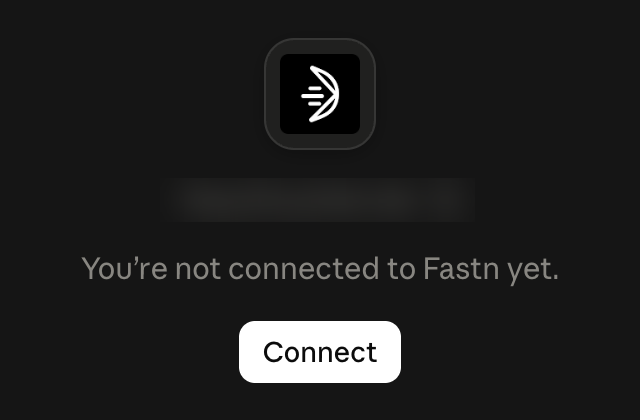
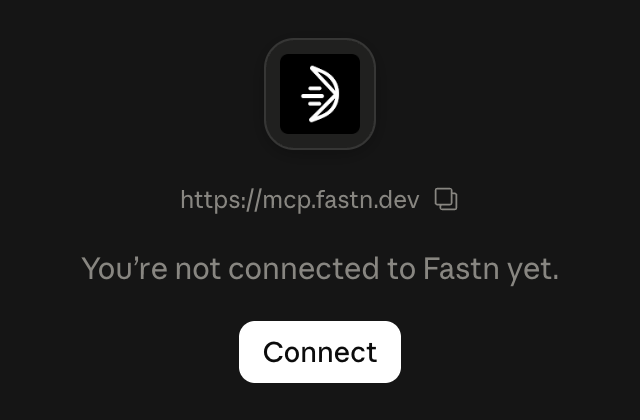
docs(build): show the connector URL on the Claude not-connected screenshot
The draft's revision 24 replaced this screenshot with one that shows the
URL the connector was added with, and added a caption pointing readers at
https://mcp.fastn.dev/fastn-workspace, the link Connect an agent gives out.

Changed region(s): [[0.2812, 0.4333, 0.7188, 0.5262]]

diff --git a/build/mcp-gateway/claude.md b/build/mcp-gateway/claude.md
@@ -12,7 +12,7 @@ Add fastn once, switch it on in a chat, then ask for the integration in one sent
 2. Or add it by hand: in Claude, open **Customize** → **Connectors**, click **Add** → **Add custom connector**, enter **Name** `fastn` and **MCP server URL** `https://mcp.fastn.dev/fastn-workspace`, then click **Continue**.
 3. Open the fastn connector. Claude shows *You're not connected to Fastn yet*. Click **Connect**.
 
-<figure><img src="../../.gitbook/assets/mcp-claude-not-connected.png" alt="Claude's fastn connector page reading You're not connected to Fastn yet, with a Connect button"><figcaption>The fastn connector in Claude before you connect it.</figcaption></figure>
+<figure><img src="../../.gitbook/assets/mcp-claude-not-connected.png" alt="Claude's fastn connector page showing the URL it was added with, https://mcp.fastn.dev, then You're not connected to Fastn yet and a Connect button"><figcaption>The page shows the URL your connector was added with. Use <code>https://mcp.fastn.dev/fastn-workspace</code>, the link from fastn's <strong>Connect an agent</strong>.</figcaption></figure>
 
 4. fastn opens **Choose what Claude can reach**. Pick your workspace, then choose which apps and tools Claude may use: **Select all**, **Reads only**, or tick them one by one. Click **Authorize Claude**.
 
